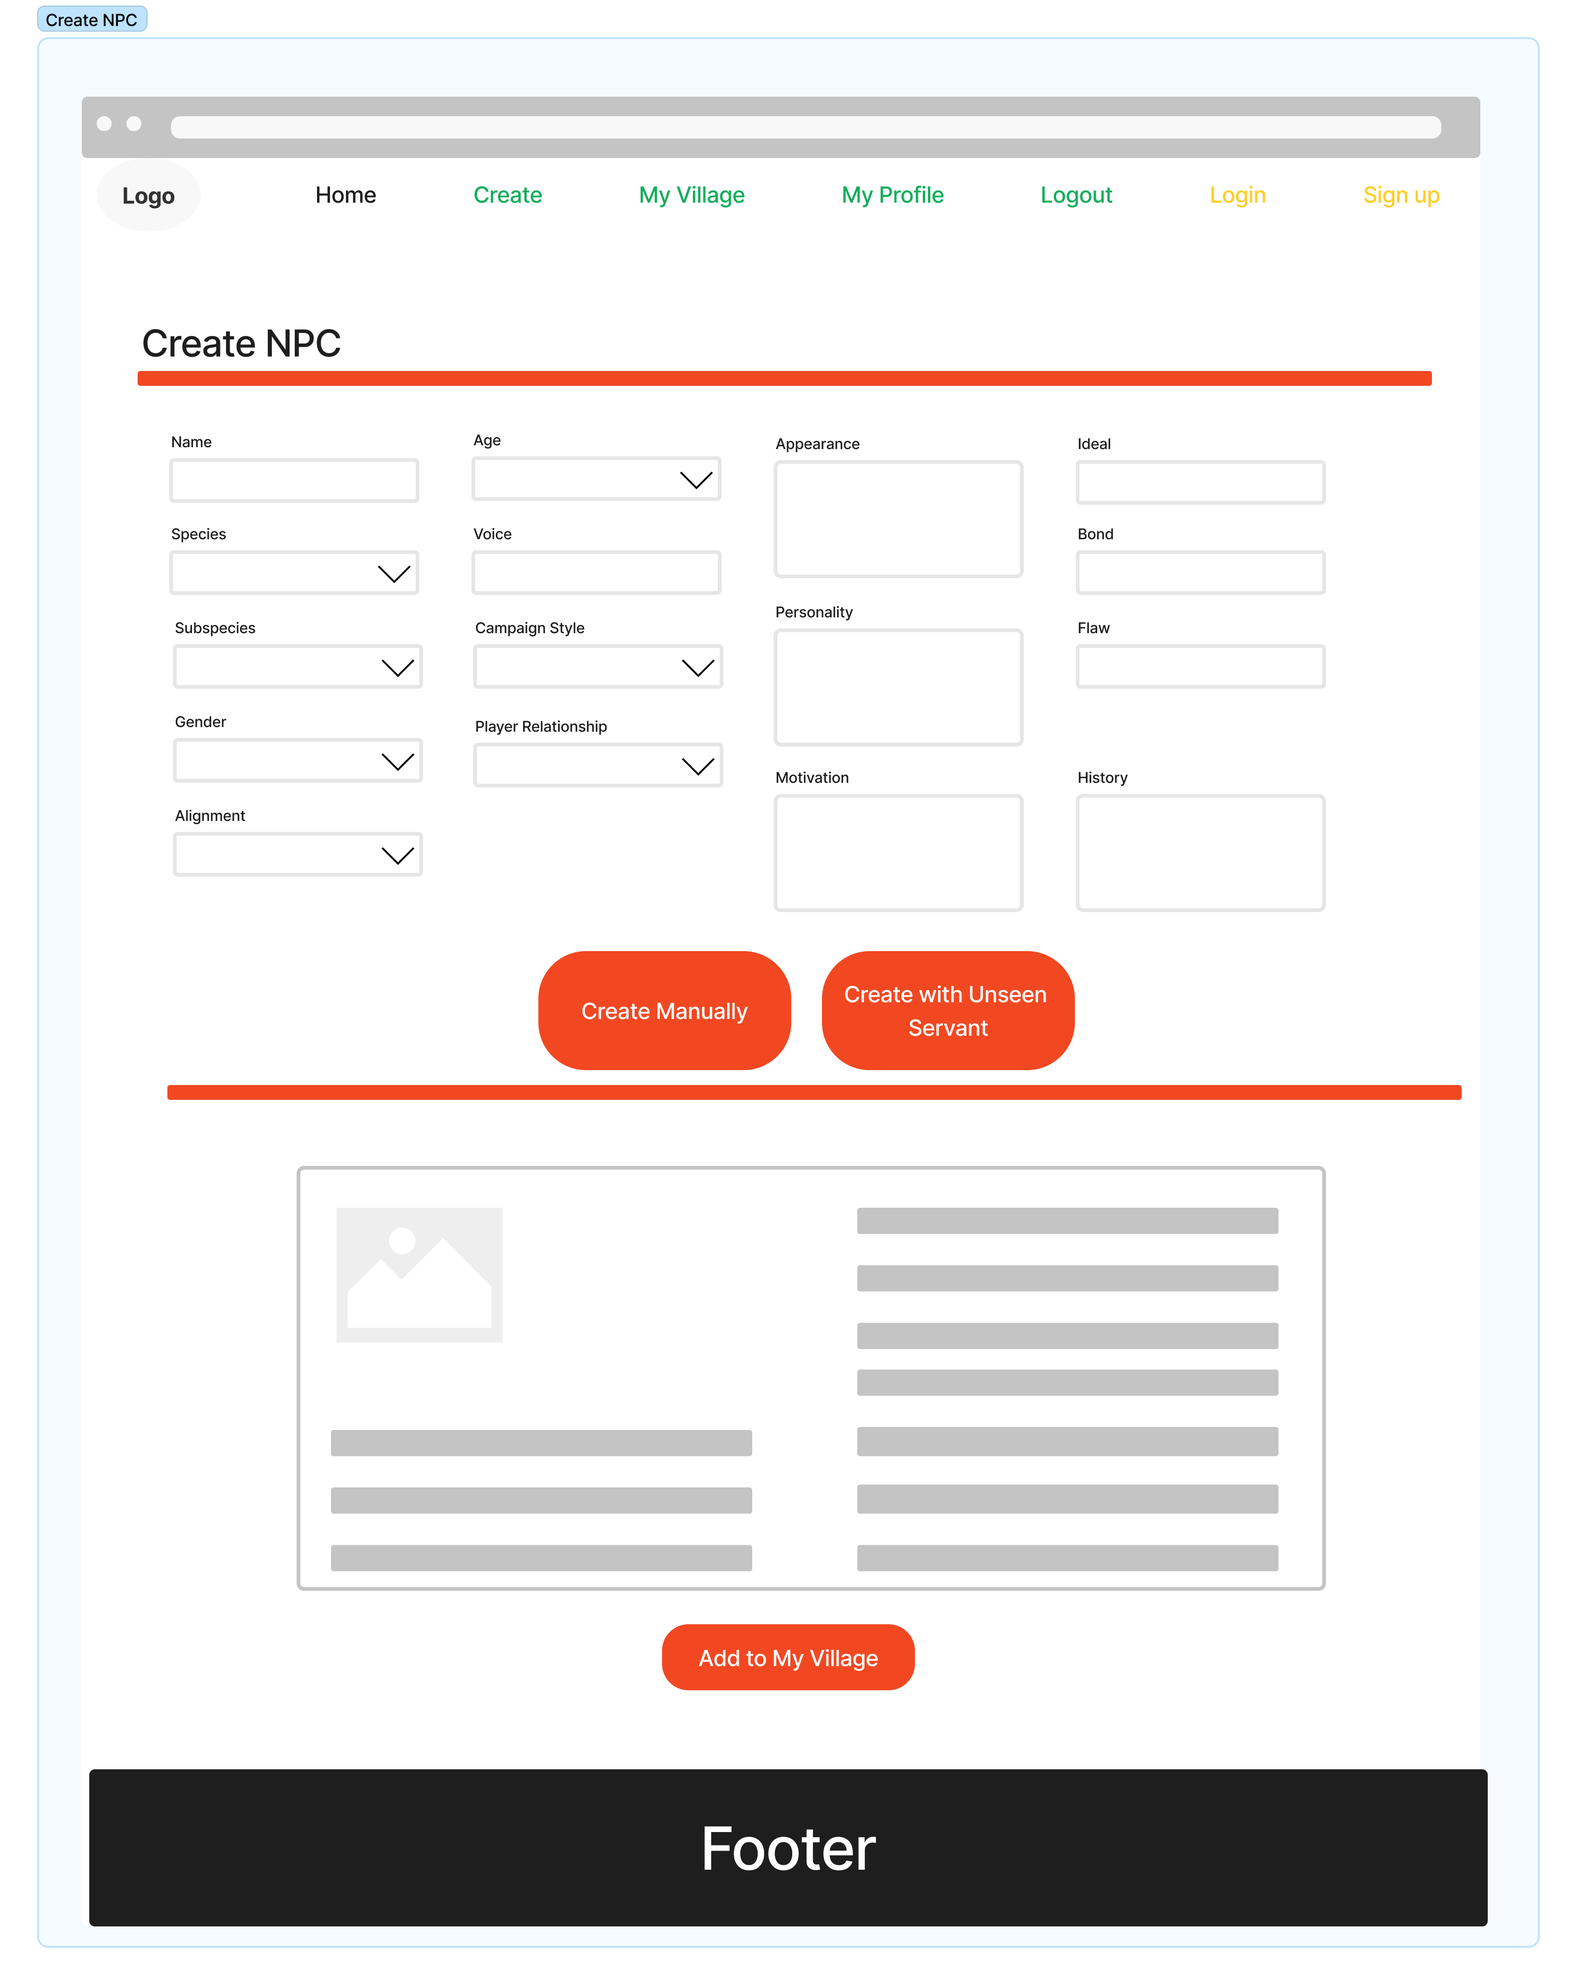
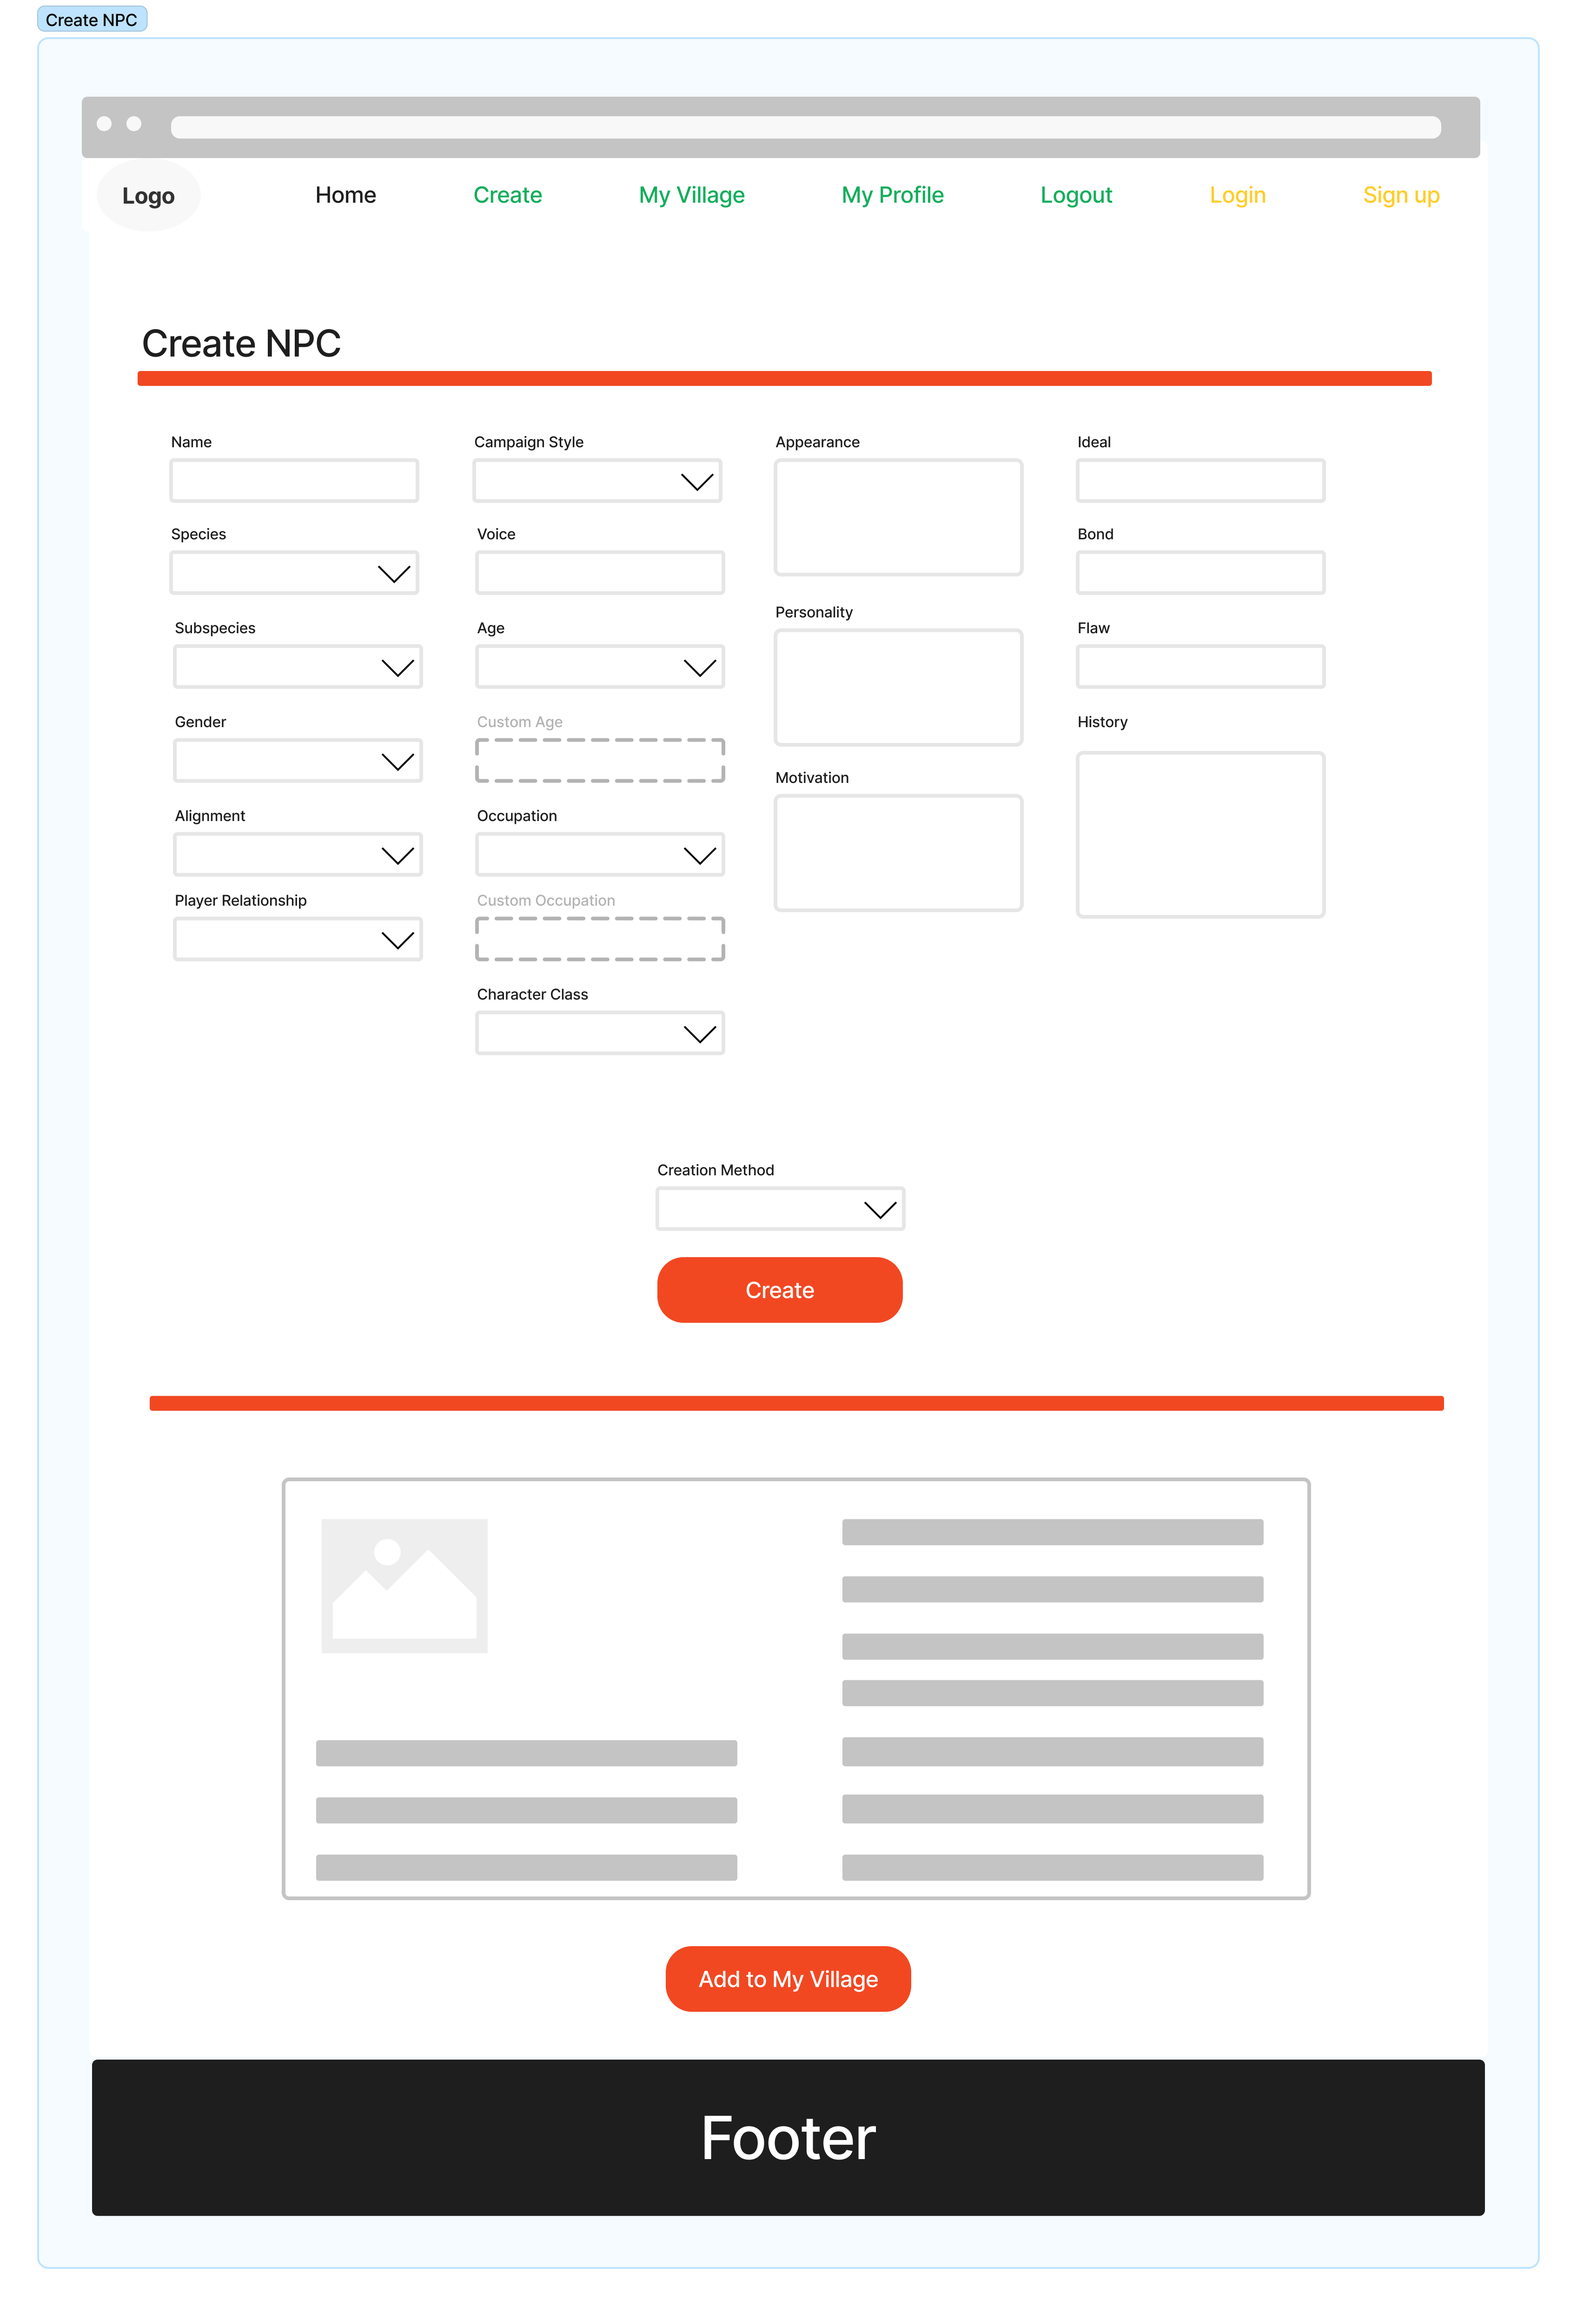
Update Form layout and options

diff --git a/README.md b/README.md
@@ -22,7 +22,7 @@ So what are you waiting for? Join today and experience a whole new world of camp
 
 ### My Profile
 
-![My Village wireframe](images/my-village-page.png)
+![My Village wireframe](images/my-profile-page.png)
 
 ### Create NPC
 
